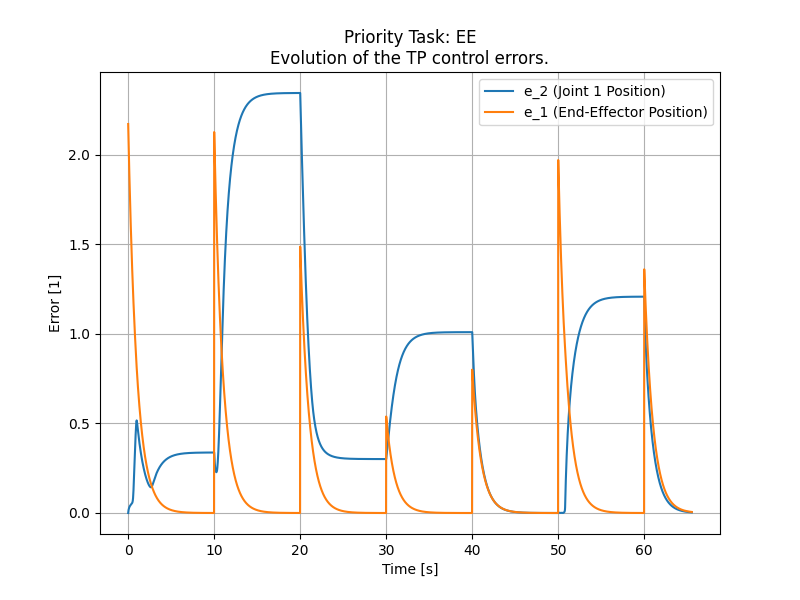
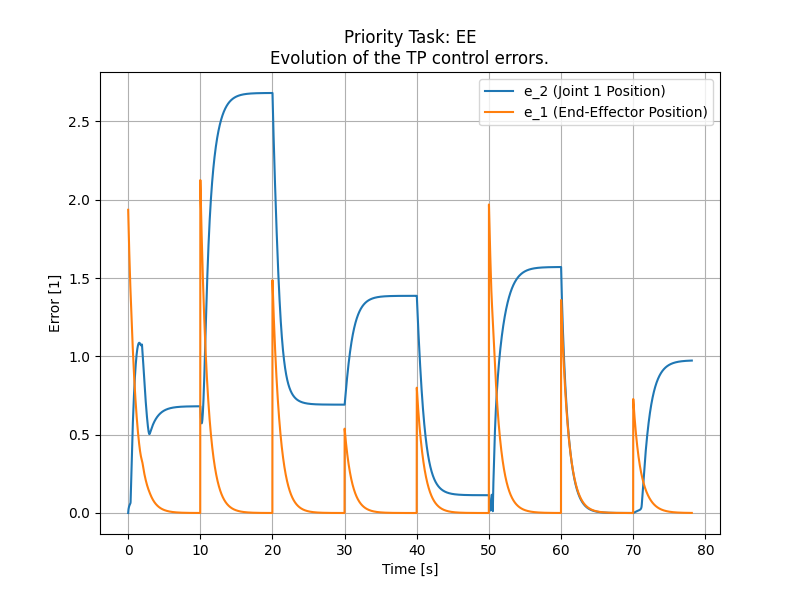
remove redundancy

diff --git a/lab2/e2.py b/lab2/e2.py
@@ -74,80 +74,58 @@ def init():
     # print(current_goal_idx,sigma1_d)
     return line, path, point
 
-# Simulation loop
 def simulate(t):
     global q, a, d, alpha, revolute, sigma1_d, sigma2_d
-    global PPx, PPy, current_goal_idx
-    
-    # Update robot
+    global PPx, PPy, current_goal_idx, dt
+
+    # Compute forward kinematics and Jacobian
     T = kinematics(d, q.flatten(), a, alpha)
     J = jacobian(T, revolute)
-    # Update control
-    # Choose the case based on the flag
+
+    # Task definitions (end-effector & joint position control)
+    sigma1 = T[-1][0:2, -1].reshape(2, 1)  # End-effector position
+    sigma2 = q[0]                          # Joint 1 position
+    err1 = sigma1_d - sigma1               # End-effector error
+    err2 = sigma2_d - sigma2               # Joint 1 error
+    x1_dot = K1 @ err1                     # Desired velocity for Task 1
+    x2_dot = K2 @ err2                     # Desired velocity for Task 2
+
+    # Define Jacobians
+    J_ee = J[0:2, :]                             # End-effector Jacobian
+    J_joint = np.array([1, 0, 0]).reshape(1, 3)  # Joint position Jacobian
+
+    # Determine task priority
     if task_flag == 1:
-        # CASE 1: End-effector position control as the top hierarchy task
-        # TASK 1: End-effector position control
-        sigma1 = T[-1][0:2, -1].reshape(2, 1)   # Current position of the end-effector
-        err1 = sigma1_d - sigma1                # Error in Cartesian position
-        x1_dot = K1 @ err1                      # Velocity for the first task
-        J1 = J[0:2, :]                          # Jacobian of the first task
-        P1 = np.eye(3) - np.linalg.pinv(J1) @ J1# Null space projector
-        
-        # TASK 2: Joint position control
-        sigma2 = q[0]                           # Current position of joint 1
-        err2 = sigma2_d - sigma2                # Error in joint position
-        x2_dot = K2 @ err2                      # Velocity for the second task
-        J2 = np.array([1, 0, 0]).reshape(1, 3)  # Jacobian of the second task
-        J2bar = J2 @ P1                         # Augmented Jacobian
-        
-        # Combining tasks
-        J_DLS1 = DLS(J1, 0.1)                   # DLS for the first task
-        J_DLS2 = DLS(J2bar, 0.1)                # DLS for the second task
-        dq1 = (J_DLS1 @ x1_dot).reshape(3, 1)   # Velocity for the first task
-        dq12 = dq1 + J_DLS2 @ (x2_dot - J2 @ dq1)# Velocity for both tasks
-  
+        J1, J2, x1, x2 = J_ee, J_joint, x1_dot, x2_dot
     elif task_flag == 2:
-        # CASE 2: Joint position control as the top hierarchy task
-        # TASK 1: Joint position control
-        sigma2 = q[0]                           # Current position of joint 1
-        err2 = sigma2_d - sigma2                # Error in joint position
-        x2_dot = K2 @ err2                      # Velocity for the second task
-        J1 = np.array([1, 0, 0]).reshape(1, 3)  # Jacobian of the second task
-        P1 = np.eye(3) - np.linalg.pinv(J1) @ J1# Null space projector
+        J1, J2, x1, x2 = J_joint, J_ee, x2_dot, x1_dot
 
-            
-        # TASK 2: End-effector position control
-        sigma1 = T[-1][0:2, -1].reshape(2, 1)   # Current position of the end-effector
-        err1 = sigma1_d - sigma1                # Error in Cartesian position
-        x1_dot = K1 @ err1                      # Velocity for the first task
-        J2 = J[0:2, :]                          # Jacobian of the first task
-        J2bar = J2 @ P1                         # Augmented Jacobian
+    # Compute null space projection
+    P1 = np.eye(3) - np.linalg.pinv(J1) @ J1
+    J2bar = J2 @ P1
 
-        # Combining tasks
-        J_DLS1 = DLS(J1, 0.1)                   # DLS for the first task
-        J_DLS2 = DLS(J2bar, 0.1)                # DLS for the second task
-        dq2 = (J_DLS1 @ x2_dot).reshape(3, 1)   # Velocity for the first task
-        dq12 = dq2 + J_DLS2 @ (x1_dot - J1 @ dq2)# Velocity for both tasks
- 
-    q = q + dq12 * dt                           # Simulation update
+    # Compute damped least squares solutions
+    J_DLS1 = DLS(J1, 0.1)
+    J_DLS2 = DLS(J2bar, 0.1)
 
-    # Update drawing
+    # Compute joint velocities
+    dq1 = (J_DLS1 @ x1).reshape(3, 1)
+    dq12 = dq1 + J_DLS2 @ (x2 - J2 @ dq1)
+
+    # Update joint positions
+    q = q + dq12 * dt
+
+    # Update visualization
     PP = robotPoints2D(T)
-    line.set_data(PP[0,:], PP[1,:])
-    PPx.append(PP[0,-1])
-    PPy.append(PP[1,-1])
+    line.set_data(PP[0, :], PP[1, :])
+    PPx.append(PP[0, -1])
+    PPy.append(PP[1, -1])
     path.set_data(PPx, PPy)
-    
-    # point.set_data(sigma1_d[0], sigma1_d[1]) #goal
-    #for error normalization
-    err_joint_pos1_norm = np.linalg.norm(err2)  # Joint 1 position error normalized
-    err_ee_pose_norm = np.linalg.norm(err1)     # End-effector position error normalized
 
-    #for plotting
-    ee_pose.append(err_ee_pose_norm)
-    joint_pos1.append(err_joint_pos1_norm)
-    # time_vector.append(t)
-    
+    # Compute error norms for plotting
+    ee_pose.append(np.linalg.norm(err1))
+    joint_pos1.append(np.linalg.norm(err2))
+
     return line, path, point
 
 # Run simulation
